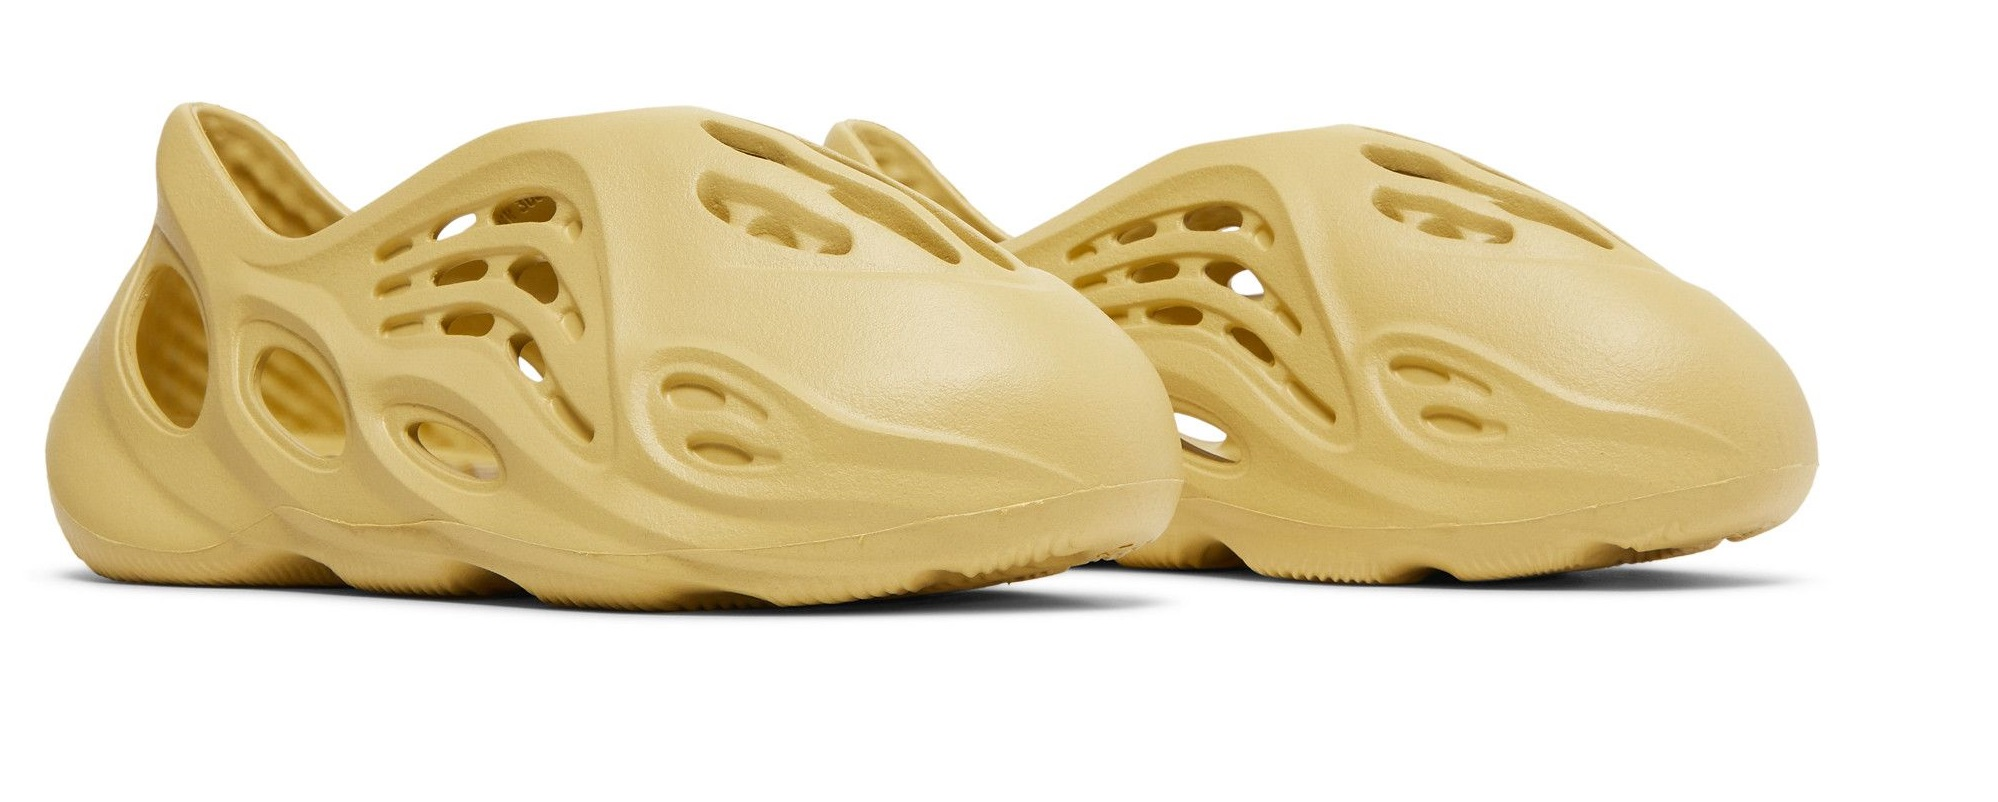
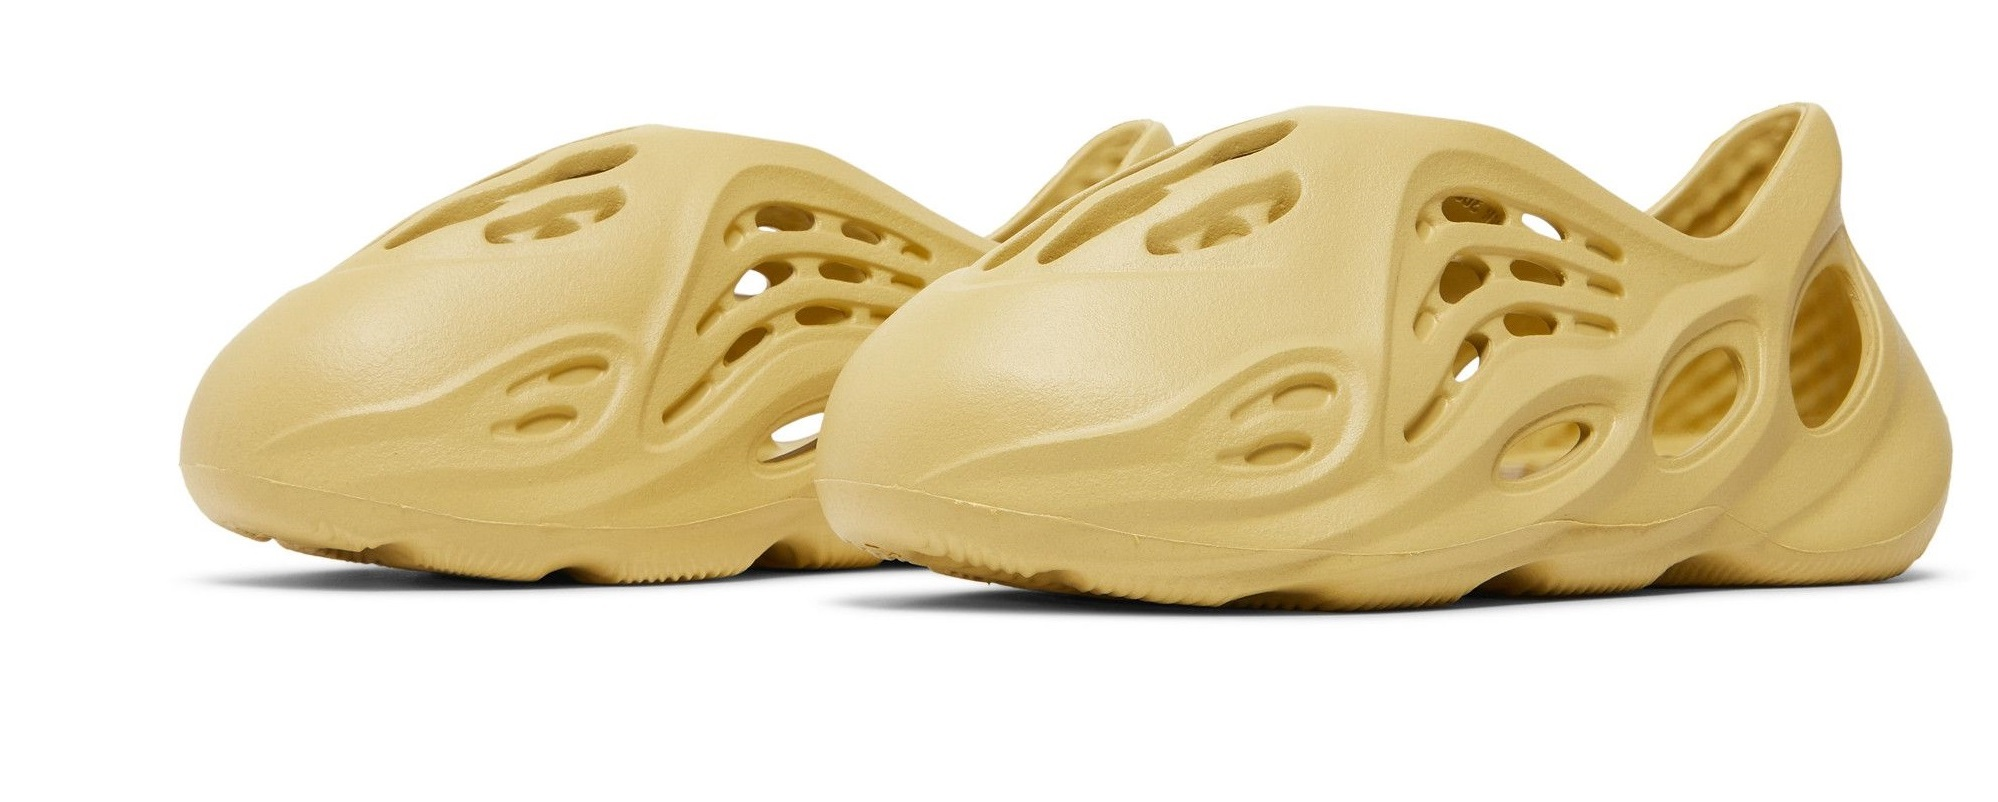
Updated Sulfur Thumbnail

diff --git a/catalogue/index.html b/catalogue/index.html
@@ -167,12 +167,12 @@
 						<article class="thumb">
 							<a href="images/fulls/863f0094-edae-4537-9571-c9eeaa9bd33b.jpeg" class="image"><img src="images/thumbs/863f0094-edae-4537-9571-c9eeaa9bd33b.jpeg" alt="" /></a>
 							<h2>28. Adidas Yeezy Boost 350 V2</h2>
-							<p>AVAILABLE SIZES: UK 9½</p>
+							<p>AVAILABLE SIZES: UK 9</p>
 						</article>
 						<article class="thumb">
-							<a href="images/fulls/29.jpg" class="image"><img src="images/thumbs/29.jpg" alt="" /></a>
-							<h2>29. Nike x G-DRAGON PEACEMINUSONE Collaboration</h2>
-							<p>AVAILABLE SIZES: UK 9½</p>
+							<a href="images/fulls/921678_08.jpg.jpeg" class="image"><img src="images/thumbs/921678_08.jpg.jpeg" alt="" /></a>
+							<h2>29. Adidas Kids Yeezy Foam Runner</h2>
+							<p>AVAILABLE SIZES: UK 7k</p>
 						</article>
 						<article class="thumb">
 							<a href="images/fulls/travis-scott-nike-air-force-1-low-cactus-jack-CN2405-900-release-date-info-1200x750.jpg" class="image"><img src="images/thumbs/travis-scott-nike-air-force-1-low-cactus-jack-CN2405-900-release-date-info-1200x750.jpg" alt="" /></a>
@@ -185,9 +185,9 @@
 							<p>AVAILABLE SIZES: UK 8</p>
 						</article>
 						<article class="thumb">
-							<a href="images/fulls/32.jpg" class="image"><img src="images/thumbs/32.jpg" alt="" /></a>
-							<h2>32. Nike x G-DRAGON PEACEMINUSONE Collaboration</h2>
-							<p>AVAILABLE SIZES: UK 9½</p>
+							<a href="images/fulls/8ca1605c-c891-48ec-b275-d6b3f2696526.jpeg" class="image"><img src="images/thumbs/8ca1605c-c891-48ec-b275-d6b3f2696526.jpeg" alt="" /></a>
+							<h2>32. Adidas Kids Yeezy Foam Runner</h2>
+							<p>AVAILABLE SIZES: UK 4k | UK 3</p>
 						</article>
 						<article class="thumb">
 							<a href="images/fulls/33.jpg" class="image"><img src="images/thumbs/33.jpg" alt="" /></a>
